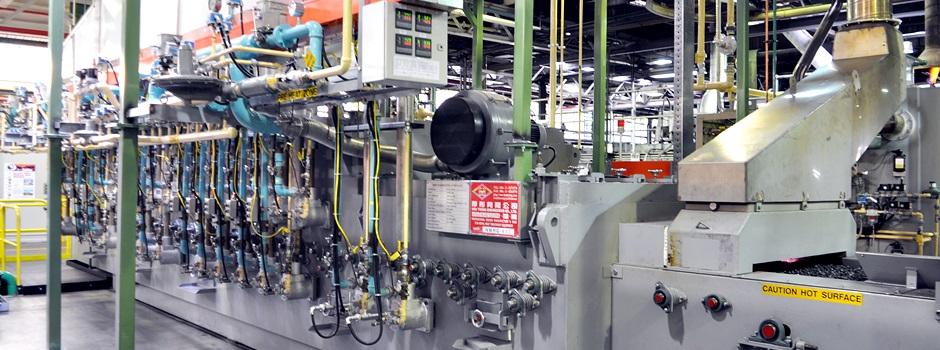
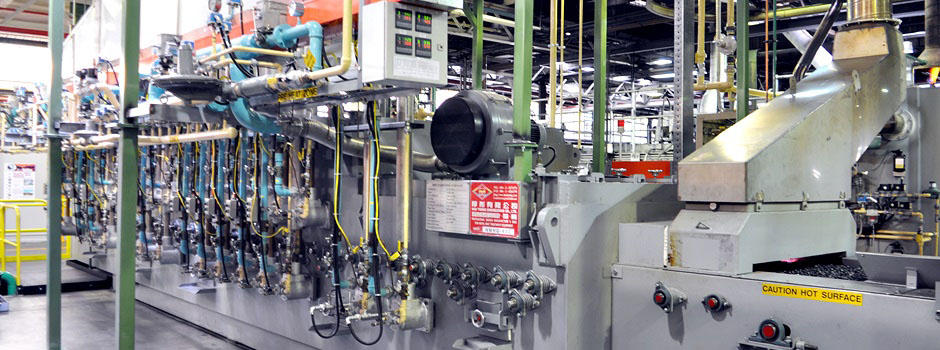
fix index slider image

diff --git a/mvc/templates/index.html5tpl.php b/mvc/templates/index.html5tpl.php
@@ -70,28 +70,28 @@
                 <div class="flexslider">
                     <ul class="slides">
                         <li>
-                            <img src="images/slider/slides/frontphoto-940x350.png" alt="Furnace">
+                            <img src="images/slider/slides/frontphoto-940x350.jpg" alt="Furnace">
                             <div class="flex-caption">
                                 <h2>${_SLIDER_P01_TITLE}</h2>
                                 <p>HOU TORNG ENGINEERING CO., LTD. is a manufacturer of standard & custom metal heat treating equipment.<a href="index.php?act=aboutus">(see more)</a></p>
                             </div>
                         </li>
 						<li>
-                            <img src="images/slider/slides/construction-940x350.png" alt="Construction">
+                            <img src="images/slider/slides/construction-940x350.jpg" alt="Construction">
                             <div class="flex-caption">
                                 <h2>${_SLIDER_P02_TITLE}</h2>
                                 <p>There is no substitute for hard work and experience.</p>
                             </div>
                         </li>
 						<li>
-                            <img src="images/slider/slides/NMHG2-940x350.png" alt="NMHG">
+                            <img src="images/slider/slides/NMHG2-940x350.jpg" alt="NMHG">
                             <div class="flex-caption">
                                 <h2>${_SLIDER_P03_TITLE}</h2>
                                 <p>We have over 20 years combined experience in the heat treating equipment industry.<a href="about-us.php">(see more)</a></p>
                             </div>
 						</li>	
                         <li>
-                            <img src="images/slider/slides/wood-items-940x350.png" alt="WoodTools">
+                            <img src="images/slider/slides/wood-items-940x350.jpg" alt="WoodTools">
                             <div class="flex-caption">
                                 <h2>${_SLIDER_P04_TITLE}</h2>
                                 <p>We have the ability to customize a furnace for any customer requirement.</p>
@@ -99,7 +99,7 @@
                         </li>
 
                         <li>
-                            <img src="images/slider/slides/worker-940x350.png" alt="Worker">
+                            <img src="images/slider/slides/worker-940x350.jpg" alt="Worker">
                             <div class="flex-caption">
                                 <h2>${_SLIDER_P05_TITLE}</h2>
                                 <p>Our world-wide technical support ensures customers a service they can depend on.</p>
